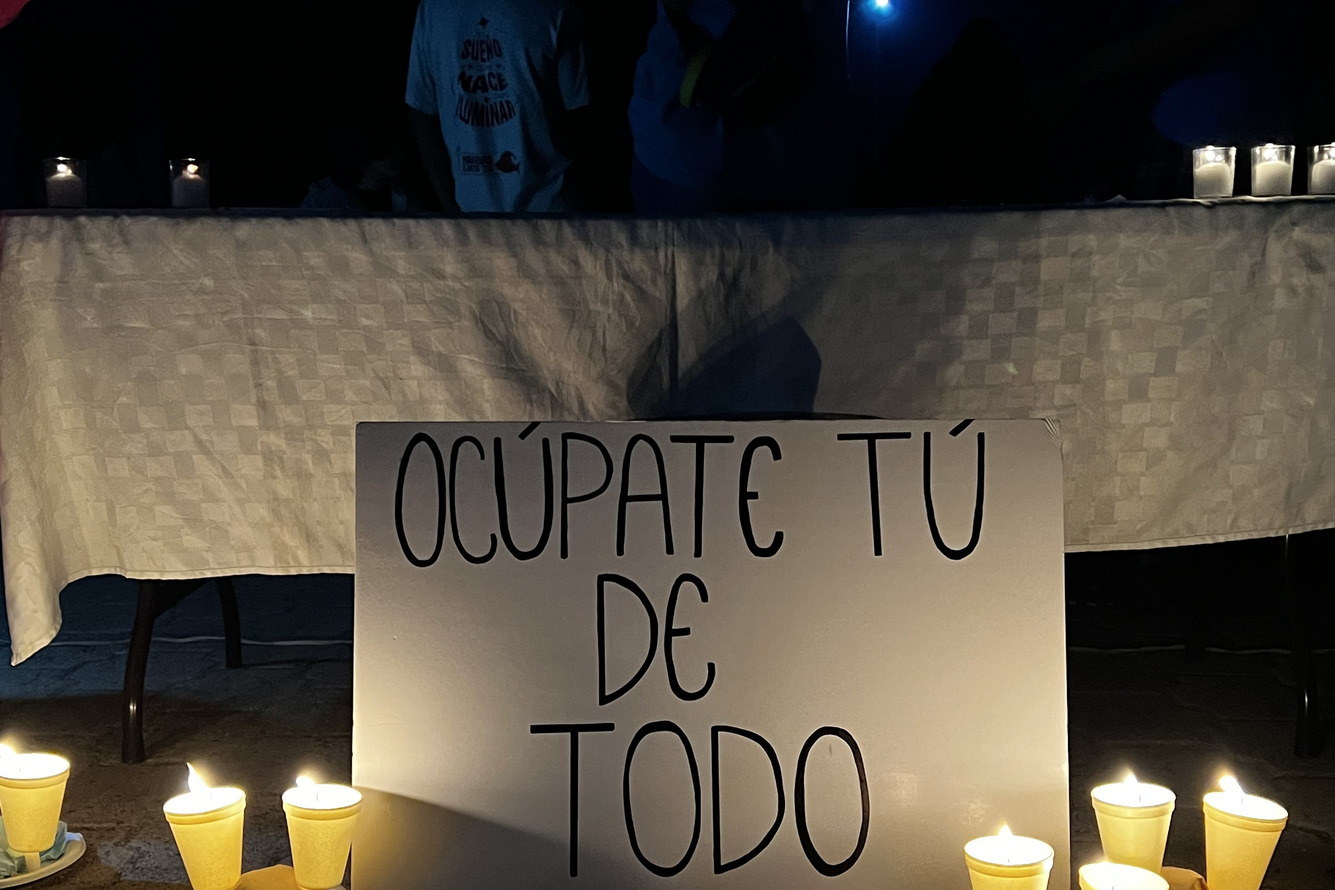
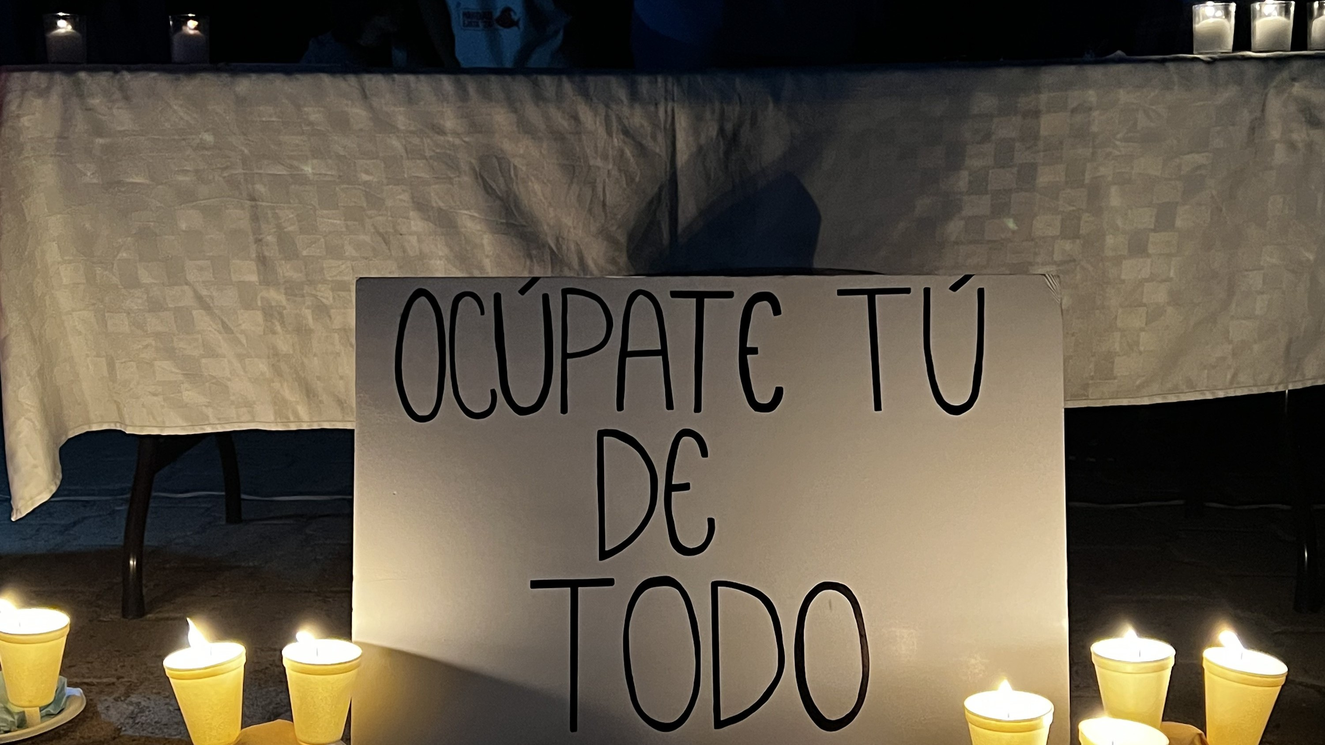
centro
arreglo imagen vivencias

diff --git a/css/styles.css b/css/styles.css
@@ -331,7 +331,7 @@ footer {
     width: 100%;
     height: 100%;
     object-fit: cover;
-    object-position: center 30%;
+    object-position: center 40%;
     opacity: 0;
     transition: opacity 0.4s ease-in-out;
     pointer-events: none;
